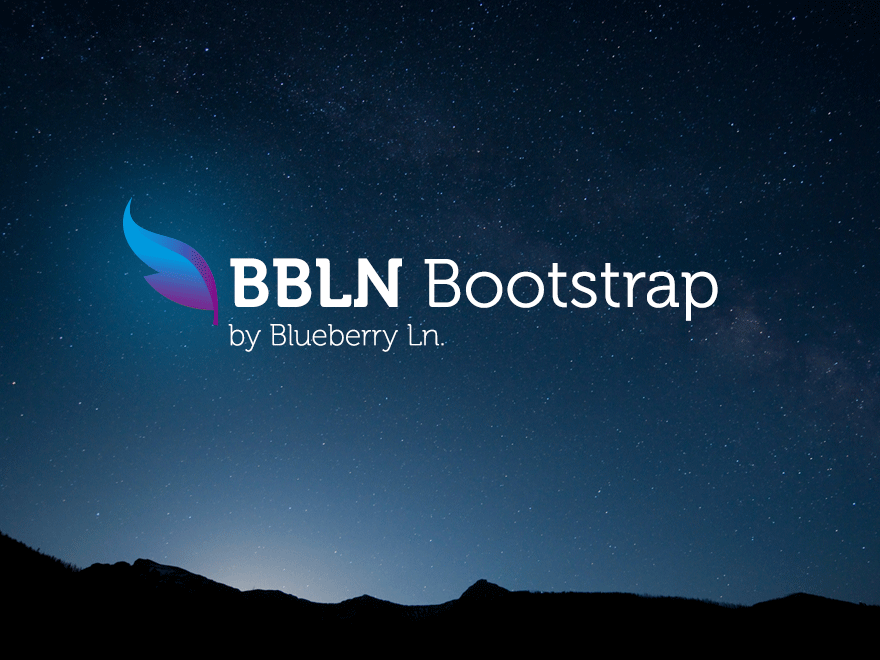
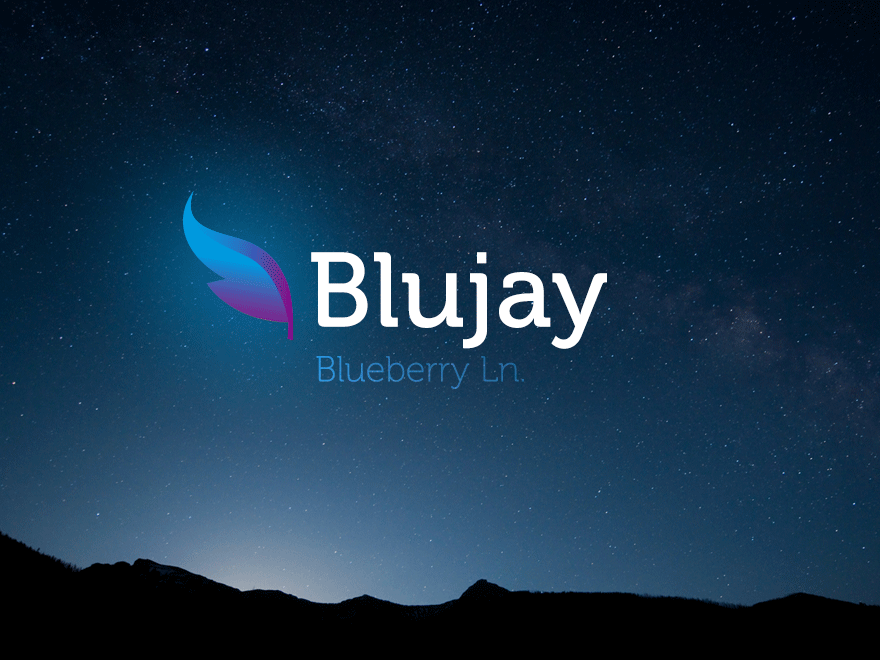
Renamed theme

Changed region(s): [[0.0614, 0.2727, 0.8284, 0.5758]]

diff --git a/style.css b/style.css
@@ -1,7 +1,7 @@
 /*
-Theme Name: BBLN Bootstrap
-Theme URI: http://bootstrap.bblndev.com
-Description: A modern, mobile first starter theme for bootstrapping WordPress projects.
+Theme Name: Blujay
+Theme URI: http://blujay.blueberryln.com
+Description: A lightweight, responsive starter theme for WordPress.
 Version: 1.1
 Author: Blueberry Ln <nathan@blueberryln.com>
 Author URI: http://blueberryln.com
